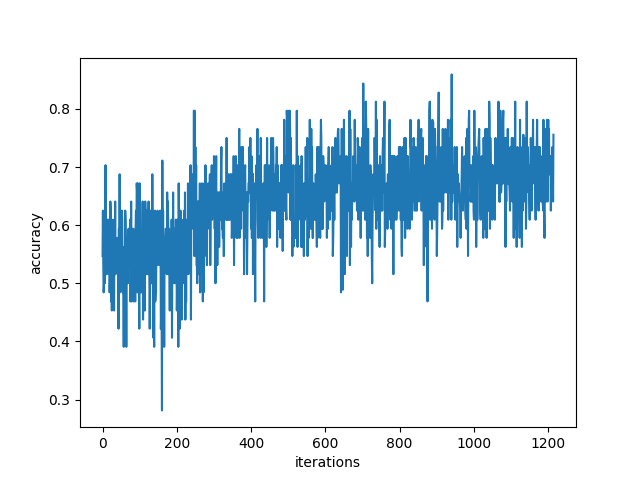
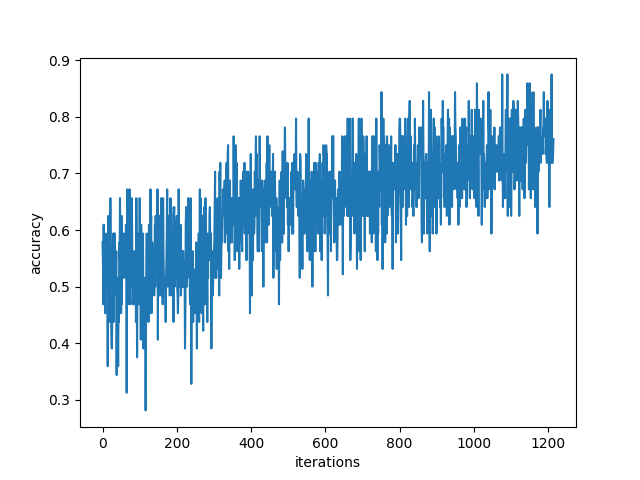
gender update

diff --git a/Vishal_tests/base/gender_model.py b/Vishal_tests/base/gender_model.py
@@ -238,7 +238,7 @@ print("defined model")
 model.type(dtype)
 model.train()
 loss_fn = nn.CrossEntropyLoss().type(dtype)
-optimizer = optim.Adam(model.parameters(), lr=1e-4,weight_decay=8e-3)
+optimizer = optim.Adam(model.parameters(), lr=1e-4,weight_decay=5e-3)
 print("start training")
 
 loss_history,acc_history,val_acc_history=train(train_loader,val_loader, model, loss_fn, optimizer, dtype,num_epochs=15, print_every=10)
